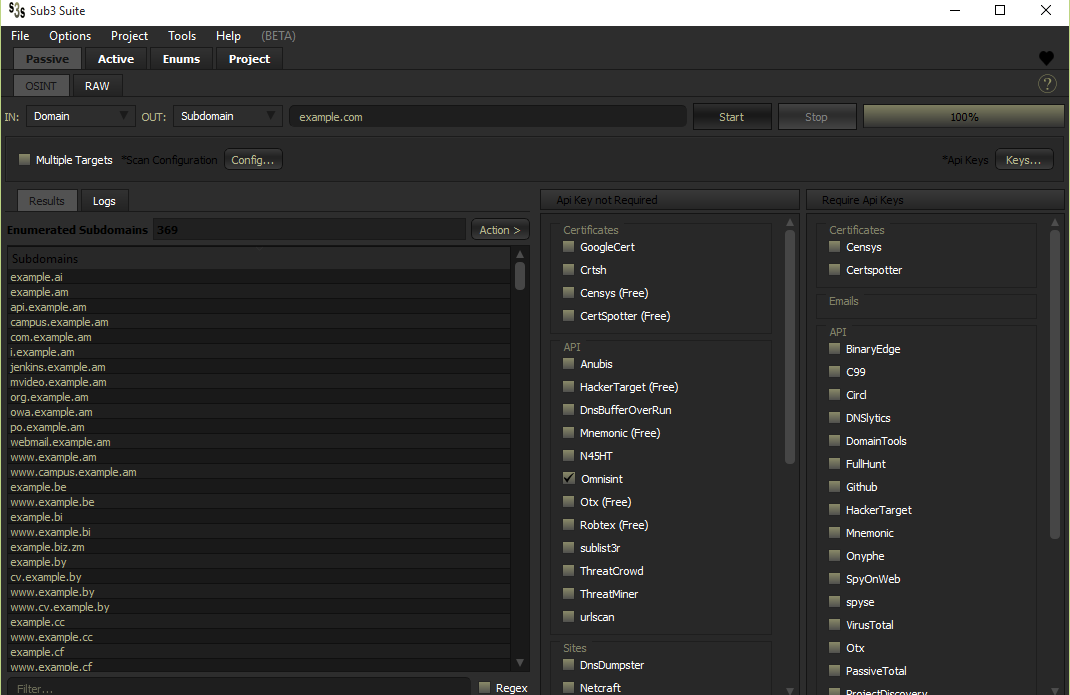
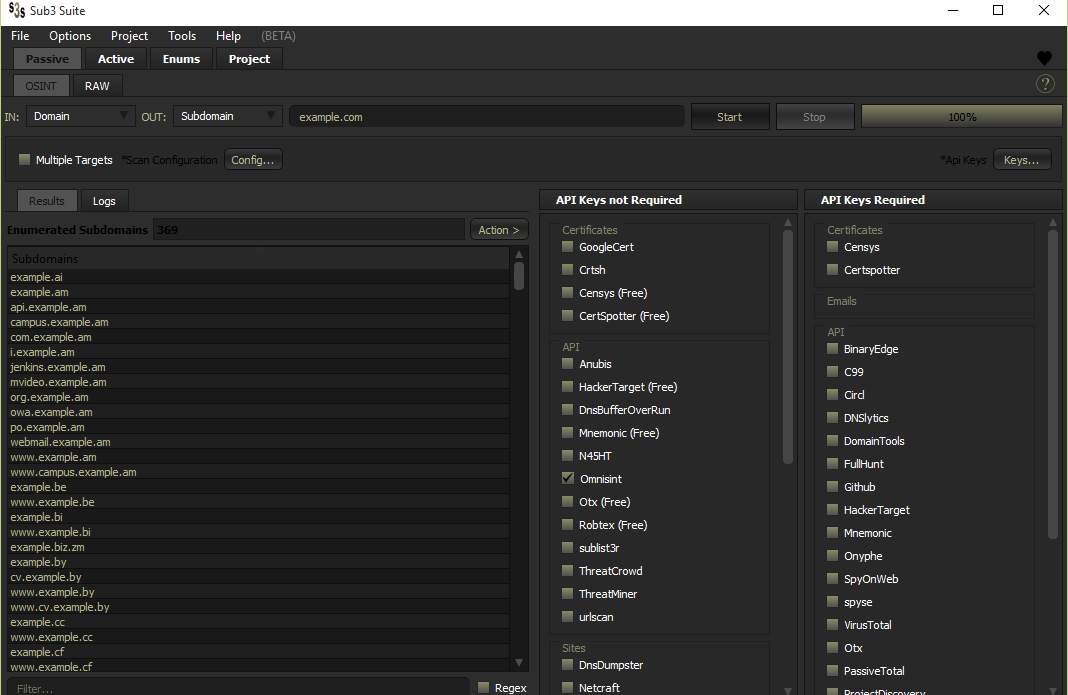
minor UI changes

diff --git a/sub3suite/res/themes/default.css b/sub3suite/res/themes/default.css
@@ -89,7 +89,7 @@ QGroupBox:title {
 
 /****************************** CheckBox ******************************/
 QCheckBox {
-    color: rgb(255,255,255);
+    color: white;
     padding: 2px;
 }
 
@@ -213,8 +213,8 @@ QToolBox QScrollArea {
 
 QToolBox::tab {
     padding-left: 12px;
-    color: black;
-    background-color: qlineargradient(spread:pad, x1:0.5, y1:1, x2:0.5, y2:0, stop:0 rgb(37, 37, 37), stop:1 rgb(57, 57, 57));
+    color: white;
+    background-color: qlineargradient(spread:pad, x1:0.5, y1:1, x2:0.5, y2:0, stop:0 rgb(37, 37, 37), stop:1 rgb(47, 47, 47));
     border-style: solid;
     border-width: 1px;
     border-color: rgb(20,20,20);
